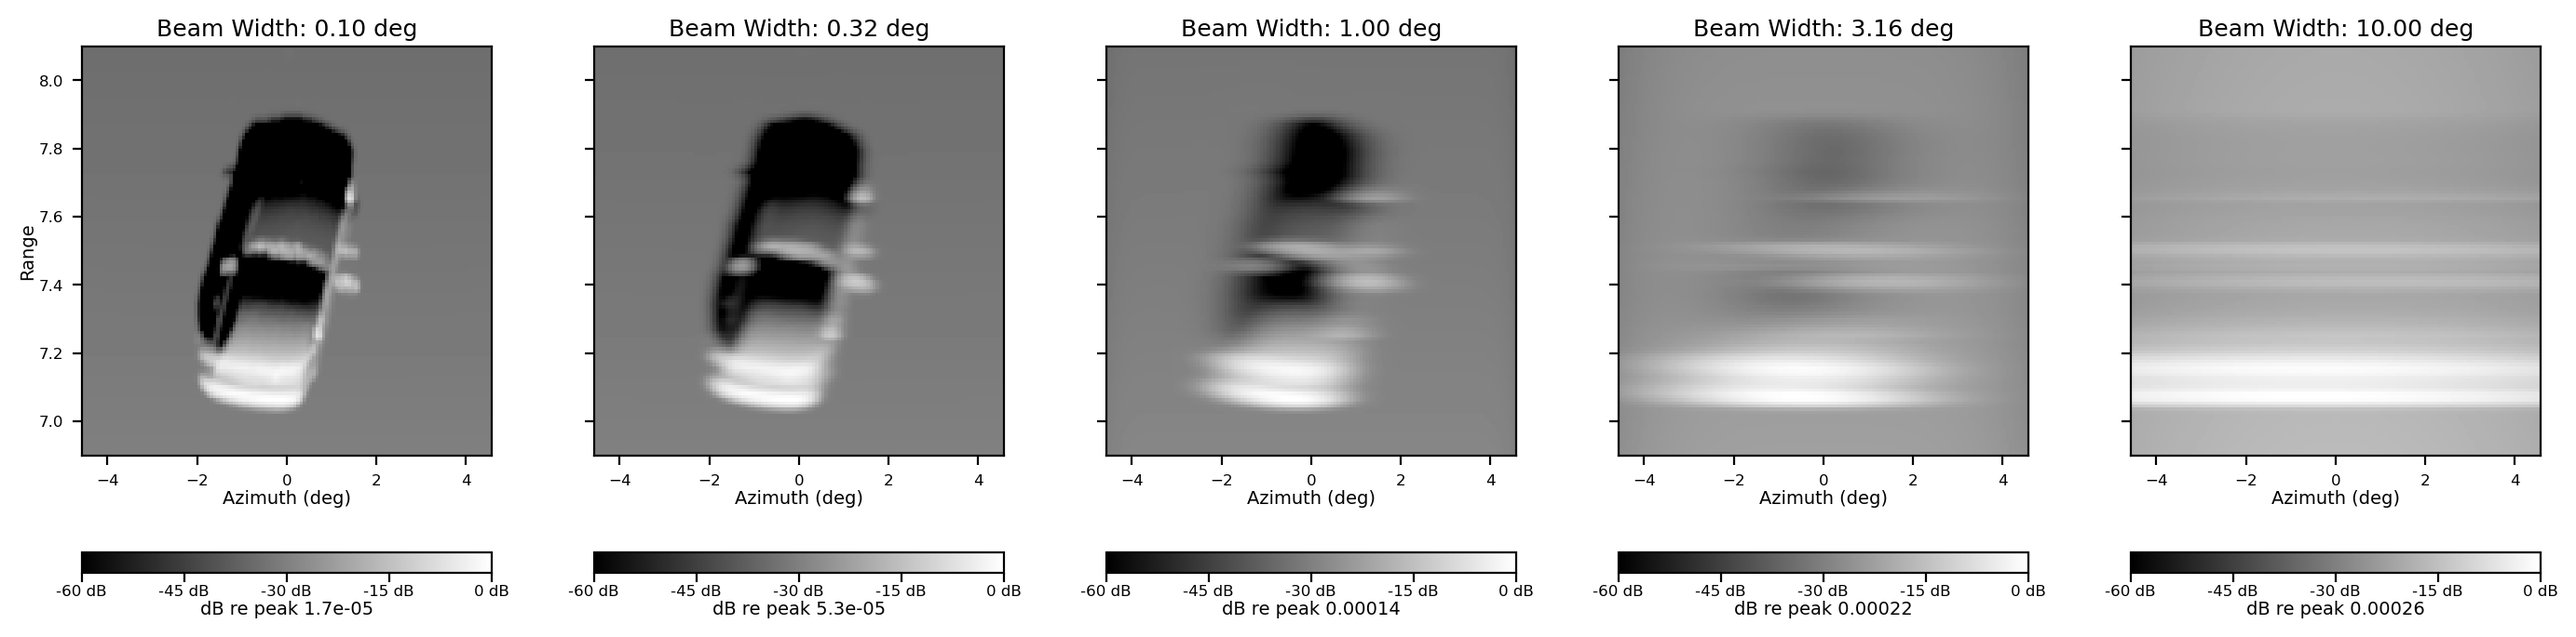
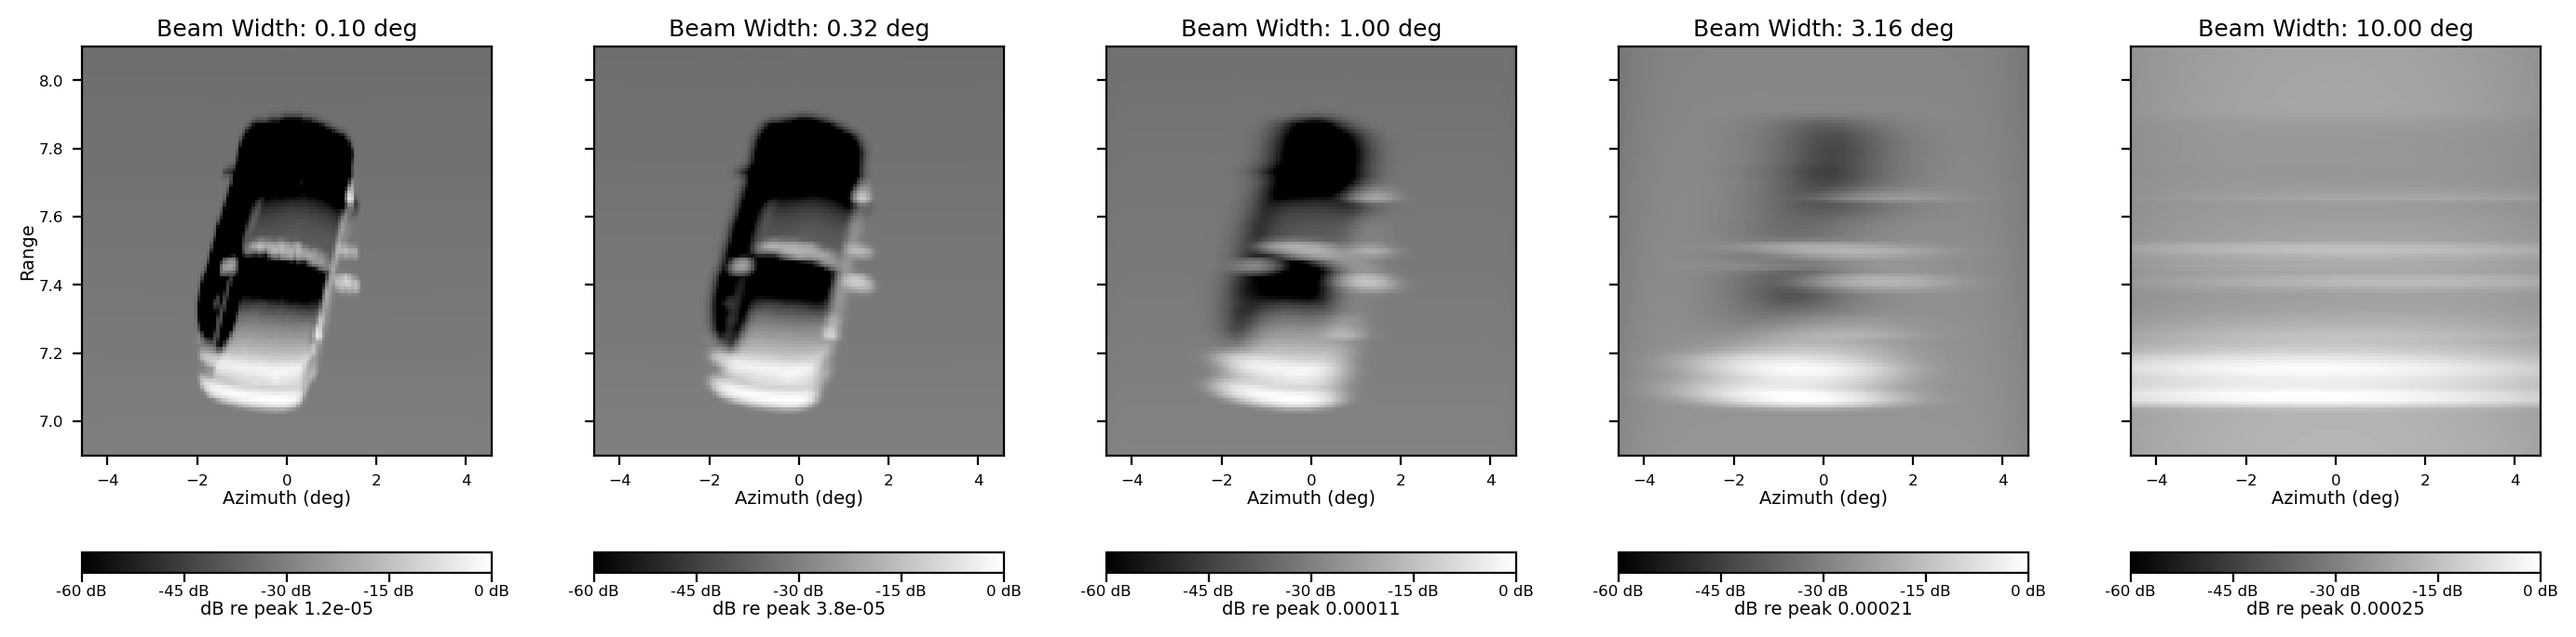
Beam width as one-way FWHM, re-render sonar figures
Claude-Session: https://claude.ai/code/session_01QUX5RcpqCitEiTerzakNUr

diff --git a/latex/main.tex b/latex/main.tex
@@ -1039,17 +1039,17 @@ the energy-range scatter of (\ref{eq:returned-scatters}) becomes complex,
 The returns are accumulated and interpolated as before, so the digital signal of the $i^{th}$ pulse, sampled on the
 one-way range axis, is
 \begin{equation}
-    s_i(z_o) = \sum_{k=1}^{N}E_ke^{j 4 \pi \zeta_k / \lambda}w\big(z_o-\zeta_k\big)
+    s_i(z_o) = \sum_{k=1}^{N}E_ke^{j 2 \pi z_k / \lambda}w\bigg(z_o-\frac{z_k}{2}\bigg)
     ,
     \label{eq:coherent-signal}
 \end{equation}
-where $\zeta_k = z_k/2$ is the one-way range of the $k^{th}$ return.
+where $w(z)$ is the effective window of the transmit waveform (Section \ref{sec:waveforms}).
 
 \subsection{Forward-Looking Sonar}
 \label{sec:forward-looking}
 
 A forward-looking sonar image is formed from $P$ pings, the sonar term for pulses, all transmitted
-from a single position with the beam steered to a different azimuth for each. The sensor sits at
+from a single position with the beam steered to a different azimuth for each. The image is a plot of received energy vs range and azimuth, sometimes reffered to as a range-angle image. The sensor sits at
 $\vec{v}$, given by an azimuth $a$ and elevation $e$ as in Section \ref{sec:problem}, and its
 boresight points at the scene origin. Range is measured from the delay of each return, and azimuth
 is measured by steering the beam pattern of the sensor. Because every quantity in our simulator is
@@ -1057,11 +1057,11 @@ expressed in spatial units, the same model applies to sonar and radar alike.
 
 Since the sensor is a point rather than a plane, the parallel $W_g \times H_g$ ray grid of the
 signal simulation is replaced by a fan of $R_h \times R_w$ rays that all leave $\vec{v}$. Let
-$\vec{u}_f = -\vec{v}/\lVert\vec{v}\rVert$ be the boresight direction, and let $\vec{u}_h$ and
+$\vec{u}_f = -\vec{v}/\lVert\vec{v}\rVert$ be the boresight direction (looking at the origin), and let $\vec{u}_h$ and
 $\vec{u}_v$ be the horizontal and vertical axes of the sensor. A ray launched at an azimuth
 offset $\phi$ and an elevation offset $\psi$ from boresight has direction
 \begin{equation}
-    \vec{d}(\phi,\psi) = \cos(\psi)\cos(\phi)\,\vec{u}_f + \cos(\psi)\sin(\phi)\,\vec{u}_h + \sin(\psi)\,\vec{u}_v
+    \vec{u}(\phi,\psi) =\cos(\psi)\cos(\phi)\,\vec{u}_f + \cos(\psi)\sin(\phi)\,\vec{u}_h + \sin(\psi)\,\vec{u}_v
     ,
     \label{eq:ray-fan}
 \end{equation}
@@ -1083,29 +1083,21 @@ where $\kappa$ is the absorption coefficient in nepers per $\ell$, and the phaso
 wavelength is given.
 
 Each return also carries two azimuths off boresight. Its transmit azimuth $\phi^{tx}_k$ is the
-launch azimuth $\phi$ of the ray that produced it. Its receive azimuth $\phi^{rx}_k$ is the
-azimuth of the point $\vec{p}_k$ that scattered it back to the sensor,
-\begin{equation}
-    \phi^{rx}_k = \operatorname{atan2}\big(\vec{u}_h\cdot(\vec{p}_k-\vec{v}),\,\vec{u}_f\cdot(\vec{p}_k-\vec{v})\big)
-    .
-    \label{eq:rx-azimuth}
-\end{equation}
-The two are equal for a first-bounce return. For a return from a later bounce, $\phi^{tx}_k$ is the
-direction of the ray's first path, while $\phi^{rx}_k$ is the direction of the point of contact
-that scattered it back, which is where a real receiver hears the energy arrive from.
+launch azimuth $\phi$ of the ray that produced it. Its receive azimuth $\phi^{rx}_k$ is tracked 
+in the ray tracing process.
 
 The sensor cannot resolve the bearing of a single return, so each return is weighted by the beam
 pattern on both transmit and receive. We model the one-way beam as a Gaussian with full width at
-half maximum $\sqrt{2}\beta$,
+half maximum $\beta$,
 \begin{equation}
-    b(\phi) = \exp\bigg(-\frac{\phi^2}{2\sigma_\beta^2}\bigg)
+    b(\phi) = \exp\Bigg(-\bigg(\frac{\phi}{\sigma_{\beta}}\bigg)^2\Bigg)
     , \quad
-    \sigma_\beta = \frac{\sqrt{2}\beta}{2\sqrt{2\ln 2}}
+    \sigma_\beta = \frac{\beta}{2\sqrt{\ln 2}}
     ,
     \label{eq:beam-pattern}
 \end{equation}
 and weight the $k^{th}$ return by $b(\phi^{tx}_k)\,b(\phi^{rx}_k)$. For a first-bounce return this
-product is a Gaussian with full width at half maximum $\beta$, the two-way beam width. The pattern
+product is a Gaussian with full width at half maximum $\beta/\sqrt{2}$, the two-way beam width. The pattern
 peaks at $1$ rather than integrating to $1$, so a return on boresight keeps its full energy, and
 widening the beam spreads a return over more pings without dividing its energy among them.
 
@@ -1113,27 +1105,27 @@ Ping $i$ steers both beams to an azimuth $\phi_i$, where the $P$ values of $\phi
 uniformly over $[-\Theta_p/2,\Theta_p/2]$. Steering shifts both patterns by $\phi_i$, and the
 digital signal of the $i^{th}$ ping is the accumulation and interpolation of the weighted returns,
 \begin{equation}
-    s_i(z_o) = \sum_{k=1}^{N}\tilde{E}_k\,b\big(\phi^{tx}_k-\phi_i\big)\,b\big(\phi^{rx}_k-\phi_i\big)\,w\big(z_o-\zeta_k\big)
-    ,
+    s_i(z_o) = \sum_{k=1}^{N}\tilde{E}_k\,b\big(\phi^{tx}_k-\phi_i\big)\,b\big(\phi^{rx}_k-\phi_i\big)\,w\bigg(z_o-\frac{z_k}{2}\bigg)
+    .
     \label{eq:fls-signal}
 \end{equation}
-where $\zeta_k = z_k/2$ is the one-way range of the $k^{th}$ return. The beam is applied after ray
+The beam is applied after ray
 tracing rather than during it, and the sensor does not move between pings, so every ping shares
 the same returns and differs only in their weights. The fan is therefore ray traced once, and the
 $P$ signals each need their own accumulation and interpolation but share a single ray trace.
 
-The image has $M$ rows at one-way ranges $\rho_m$, spaced uniformly from $\rho_{near}$ in the
-bottom row to $\rho_{far}$ in the top row, and one column per ping, with $\phi_i$ increasing from
-left to right. The pixel at range $\rho_m$ and azimuth $\phi_i$ is
+The image has $M$ rows, at one-way ranges $z_o$ spaced uniformly from $z_{near}$ in the
+bottom row to $z_{far}$ in the top row, and one column per ping, with $\phi_i$ increasing from
+left to right. The pixel at range $z_o$ and azimuth $\phi_i$ is
 \begin{equation}
-    I(\rho_m,\phi_i) = \big|s_i(\rho_m)\big|
+    \hat{\gamma}(z_o,\phi_i) = \big|s_i(z_o)\big|
     ,
     \label{eq:fls-image}
 \end{equation}
 where $|s_i|$ is evaluated between its samples by linear interpolation, and every signal is
-sampled over a window that covers $[\rho_{near},\rho_{far}]$. The rows span a range swath
-$S_\rho$ that brackets the scene origin along the line of sight, $\rho_{near} =
-\lVert\vec{v}\rVert - S_\rho/2$ and $\rho_{far} = \lVert\vec{v}\rVert + S_\rho/2$, so the window
+sampled over a window that covers $[z_{near},z_{far}]$. The rows span a range swath
+$\Delta z$ that brackets the scene origin along the line of sight, $z_{near} =
+\lVert\vec{v}\rVert - \Delta z/2$ and $z_{far} = \lVert\vec{v}\rVert + \Delta z/2$, so the window
 follows the sensor when it is moved away from the scene. A time-varying gain, a receiver ramp
 against the fall of the return with range, can be applied to each signal before the image is
 formed by scaling $s_i(z_o)$ by $z_o^{\eta}$, where $\eta = 0$ disables it.
@@ -1142,7 +1134,7 @@ In range, the resolution of (\ref{eq:fls-signal}) is set by the spatial bandwidt
 as in SAR, rather than by the spacing of the rows. In azimuth, it is set by the beam width $\beta$
 rather than by a synthetic aperture, and the pings sample it every $\Theta_p/(P-1)$. The azimuth
 span of the image $\Theta_p$ is separate from the field of view $\Theta_w$ of the fan, and should
-be narrower than it by about $3\beta$. The two-way beam falls to about $0.002$ at $1.5\beta$ off
+be narrower than it by about $3\beta$. The one-way beam falls to about $0.002$ at $1.5\beta$ off
 its axis, so this margin puts rays under the whole beam of every ping, including the pings at the
 edges of the image. A fan narrower than that leaves the outer pings with part of their beam unlit,
 and the edges of the image darken. When $\lambda$ is given, the returns sum coherently within each
@@ -1169,17 +1161,17 @@ sonar holds its beam fixed, and the target drifts across the beam as the platfor
 
 Each ping casts its own fan (\ref{eq:ray-fan}) from $\vec{v}_i$, and every fan shares the axes
 $\vec{u}_f$, $\vec{u}_h$ and $\vec{u}_v = \vec{u}_h \times \vec{u}_f$. The fan spans $\Theta_w =
-3\beta$ in azimuth, since the two-way beam has fallen to about $0.002$ at its edges, and
+3\beta$ in azimuth, since the one-way beam has fallen to about $0.002$ at its edges, and
 $\Theta_h$ in elevation, which sets the swath of seafloor that is imaged. The returns take the
 energy of (\ref{eq:sonar-energy}), with absorption in the water. Their azimuths
-$\phi^{tx}_k$ and $\phi^{rx}_k$ are measured off the fixed boresight as in (\ref{eq:rx-azimuth}),
+$\phi^{tx}_k$ and $\phi^{rx}_k$ are measured off the fixed boresight,
 with $\vec{v}_i$ in place of $\vec{v}$, so the azimuth of a return locates it along the track
 rather than always lying near $0$.
 
 The beam pattern (\ref{eq:beam-pattern}) is applied as in forward-looking sonar, but without
 steering, and the digital signal of the $i^{th}$ ping is
 \begin{equation}
-    s_i(z_o) = \sum_{k=1}^{N}\tilde{E}_k\,b\big(\phi^{tx}_k\big)\,b\big(\phi^{rx}_k\big)\,w\big(z_o-\zeta_k\big)
+    s_i(z_o) = \sum_{k=1}^{N}\tilde{E}_k\,b\big(\phi^{tx}_k\big)\,b\big(\phi^{rx}_k\big)\,w\bigg(z_o-\frac{z_k}{2}\bigg)
     ,
     \label{eq:ss-signal}
 \end{equation}
@@ -1188,14 +1180,14 @@ samples of all pings line up in range.
 
 Stacked as columns, the magnitudes $|s_i(z_o)|$ sample the scene over along-track offset $\xi_i$
 and slant range $z_o$. The image interpolates them bilinearly onto an $H \times W$ pixel grid that
-spans a cross-range swath $S_\xi$ along the track and a range swath $S_\rho$ in slant range,
+spans a cross-range swath $\Delta\xi$ along the track and a range swath $\Delta z$ in slant range,
 centered on $\xi = 0$ and on the target range $\lVert\bar{\vec{v}}\rVert$, with near range in the
 bottom row. Pixels outside the sampled track are zero, so the track length $L$ should be at least
-$S_\xi$. The rows are in slant range, since no projection onto the ground plane is applied. As in
+$\Delta\xi$. The rows are in slant range, since no projection onto the ground plane is applied. As in
 forward-looking sonar, a time-varying gain can be applied to each signal before the image is formed.
 
-Along the track, the resolution is set by the beam: at slant range $\rho$ the beam covers about
-$\rho\beta$ of the track, with $\beta$ in radians, so a narrower beam resolves finer detail. In
+Along the track, the resolution is set by the beam: at slant range $z_o$ the two-way beam covers
+about $z_o\beta/\sqrt{2}$ of the track, with $\beta$ in radians, so a narrower beam resolves finer detail. In
 range, it is set by $B_s$ as before. The seafloor is seen at a grazing angle, so an object standing
 off it occludes the ground down range and casts an acoustic shadow, and the top of the object
 returns before the seafloor beneath it because it is closer to the sensor.
@@ -1215,36 +1207,36 @@ one-way range
     \label{eq:plane-wave-range}
 \end{equation}
 Only the horizontal part of $\vec{u}_i$ contributes to (\ref{eq:plane-wave-range}), and its length
-is $\cos e_i$. Letting $\vec{n}_i$ be its unit vector, the ground direction of pulse $i$, the
-sample at range $z_o$ comes from the ground line $\vec{n}_i\cdot\vec{x} = r$, where
+is $\cos e_i$. Letting $\vec{u}_{g,i}$ be its unit vector, the ground direction of pulse $i$, the
+sample at range $z_o$ comes from the ground line $\vec{u}_{g,i}\cdot\vec{x} = \rho$, where
 \begin{equation}
-    r = \frac{z_o-\lVert\vec{v}_i\rVert}{\cos e_i}
+    \rho = \frac{z_o-\lVert\vec{v}_i\rVert}{\cos e_i}
     .
     \label{eq:ground-projection}
 \end{equation}
 Each pulse is therefore a projection of the scene reflectivity onto the line through the origin
-along $\vec{n}_i$, sampled at the ground-plane rate $F_s\cos e_i$, and the image is recovered from
+along $\vec{u}_{g,i}$, sampled at the ground-plane rate $F_s\cos e_i$, and the image is recovered from
 the $P$ projections as in computed tomography. The projection is undefined at $e_i = 90^\circ$,
 where the pulse looks straight down and has no ground direction.
 
 When a wavelength is given, each pulse is first demodulated,
 \begin{equation}
-    \tilde{s}_i(z) = s_i(z)e^{-j 4 \pi z / \lambda}
+    \tilde{s}_i(z_o) = s_i(z_o)e^{-j 4 \pi z_o / \lambda}
     ,
     \label{eq:demod}
 \end{equation}
 which removes the carrier of (\ref{eq:coherent-signal}) and integrates the pulses coherently.
 Without a wavelength the signals are real and this step is skipped. Expressed in the ground
-coordinate $r$ of (\ref{eq:ground-projection}), each pulse is filtered by weighting its spectrum
+coordinate $\rho$ of (\ref{eq:ground-projection}), each pulse is filtered by weighting its spectrum
 $\tilde{S}_i(Z)$ by the ramp $|Z|$,
 \begin{equation}
-    \check{s}_i(r) = \int_{-\infty}^{\infty}|Z|\tilde{S}_i(Z)e^{j 2 \pi r Z}dZ
+    \check{s}_i(\rho) = \int_{-\infty}^{\infty}|Z|\tilde{S}_i(Z)e^{j 2 \pi \rho Z}dZ
     ,
     \label{eq:cbp-ramp}
 \end{equation}
 and the filtered pulses are backprojected along their ground lines,
 \begin{equation}
-    \hat{\gamma}(\vec{x}) = \sum_{i=1}^{P}\check{s}_i\big(\vec{n}_i\cdot\vec{x}\big)
+    \hat{\gamma}(\vec{x}) = \sum_{i=1}^{P}\check{s}_i\big(\vec{u}_{g,i}\cdot\vec{x}\big)
     ,
     \label{eq:cbp}
 \end{equation}
@@ -1405,7 +1397,7 @@ $\Theta_h$                 & ray\_fov\_el             & $23^\circ$ \\
 $\beta$                    & azimuth\_beam\_width\_deg & $0.1^\circ$ \\
 $R_w$                      & num\_ray\_width          & $350$ \\
 $R_h$                      & num\_ray\_height         & $550$ \\
-$S_\rho$                   & image\_range\_swath      & $1.2$ \\
+$\Delta z$                 & image\_range\_swath      & $1.2$ \\
 $\lambda$                  & wavelength               & None \\
 $B_s$                      & spatial\_bw              & $32$ \\
 $F_s$                      & spatial\_fs              & $64$ \\
@@ -1445,8 +1437,8 @@ $R_w$                      & num\_ray\_width          & $1$ \\
 $R_h$                      & num\_ray\_height         & $550$ \\
 $W$                        & image\_width             & $128$ \\
 $H$                        & image\_height            & $128$ \\
-$S_\xi$                    & image\_cross\_range\_swath & $1.2$ \\
-$S_\rho$                   & image\_range\_swath      & $1.2$ \\
+$\Delta\xi$                & image\_cross\_range\_swath & $1.2$ \\
+$\Delta z$                 & image\_range\_swath      & $1.2$ \\
 $\lambda$                  & wavelength               & None \\
 $B_s$                      & spatial\_bw              & $30$ \\
 $F_s$                      & spatial\_fs              & $60$ \\

diff --git a/sidescansonar.py b/sidescansonar.py
@@ -49,20 +49,19 @@ def apply_beam_pattern(energy, tx_azimuth_deg, rx_azimuth_deg, beam_width_deg):
     Weight scatter energies by a two-way Gaussian beam: transmit at each scatter's launch azimuth,
     receive at its arrival azimuth. Runs after accumulate_scatters, which never applies a beam.
 
-    Each one-way Gaussian is sqrt(2) wider than beam_width_deg, so on a first bounce, where the two
-    azimuths agree, the product is the two-way beam of FWHM beam_width_deg.
+    Each one-way Gaussian has FWHM beam_width_deg, so on a first bounce, where the two azimuths
+    agree, the product is the two-way beam of FWHM beam_width_deg/sqrt(2).
 
     inputs:
         energy (R,): scatter energies, real or complex
         tx_azimuth_deg (R,): launch azimuth of the ray behind each scatter, off boresight, in degrees
         rx_azimuth_deg (R,): arrival azimuth of each scatter, off the same boresight, in degrees
-        beam_width_deg (float): two-way FWHM of the beam, in degrees
+        beam_width_deg (float): one-way FWHM of the beam, in degrees
     outputs:
         energy (R,): the weighted energies
     '''
-    one_way_beam_width_deg = beam_width_deg * np.sqrt(2)
-    return (energy * beam_spread_weights(tx_azimuth_deg, one_way_beam_width_deg)
-                   * beam_spread_weights(rx_azimuth_deg, one_way_beam_width_deg))
+    return (energy * beam_spread_weights(tx_azimuth_deg, beam_width_deg)
+                   * beam_spread_weights(rx_azimuth_deg, beam_width_deg))
 
 
 def side_scan_sonar_image(
@@ -147,7 +146,7 @@ def side_scan_sonar_image(
     poses[:, :3, 3] = trajectory                                                    # only the center moves
 
     # the ray fan only needs to cover the angles where the beam pattern still has weight. The
-    # Gaussian is down to ~0.002 at 1.5 beam widths off boresight, so 3 beam widths total spends
+    # one-way Gaussian is down to ~0.002 at 1.5 beam widths off boresight, so 3 beam widths total spends
     # rays where the energy actually is instead of on the tails.
     fan_azimuth_fov_deg   = azimuth_beam_width_deg * 3
     fan_elevation_fov_deg = elevation_fov_deg
@@ -368,7 +367,7 @@ def render_side_scan_image(
             leaves the outer image columns with no ping abeam of them, and they come out zero
         num_pings (int): pings along the track, i.e. columns of the image
         elevation_fov_deg (float): vertical extent of the ray fan, about the boresight
-        azimuth_beam_width_deg (float): FWHM of the along-track beam, which sets the along-track
+        azimuth_beam_width_deg (float): one-way FWHM of the along-track beam, which sets the along-track
             resolution; the ray fan spans 3x this
         num_ray_width/num_ray_height (int): rays per ping across the fan. num_ray_width 1 is a
             single boresight ray, which leaves the azimuth beam nothing to spread

diff --git a/forwardlookingsonar.py b/forwardlookingsonar.py
@@ -82,7 +82,7 @@ def forward_looking_sonar_image(
         num_pings (int): pings across that span, i.e. columns of the image, left to right
         num_range_values (int): rows of the image, far range in the top row
         ray_fov_az/ray_fov_el (float): azimuth and elevation extent of the ray fan, in degrees
-        azimuth_beam_width_deg (float): two-way FWHM of the beam each ping steers, in degrees
+        azimuth_beam_width_deg (float): one-way FWHM of the beam each ping steers, in degrees
         num_ray_width/num_ray_height (int): rays across the fan in azimuth and elevation
         image_range_swath (float): one-way range the rows span, from sensor_distance -
             image_range_swath/2 in the bottom row to sensor_distance + image_range_swath/2 in the
